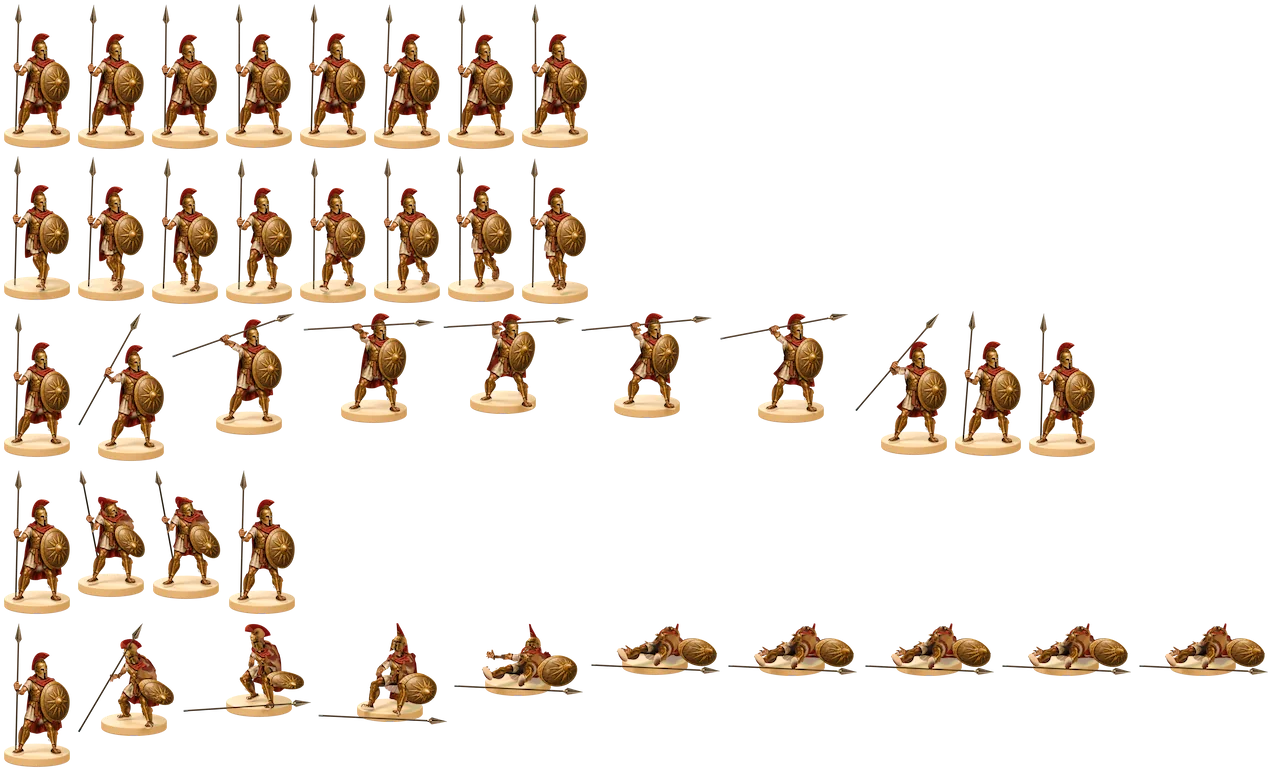
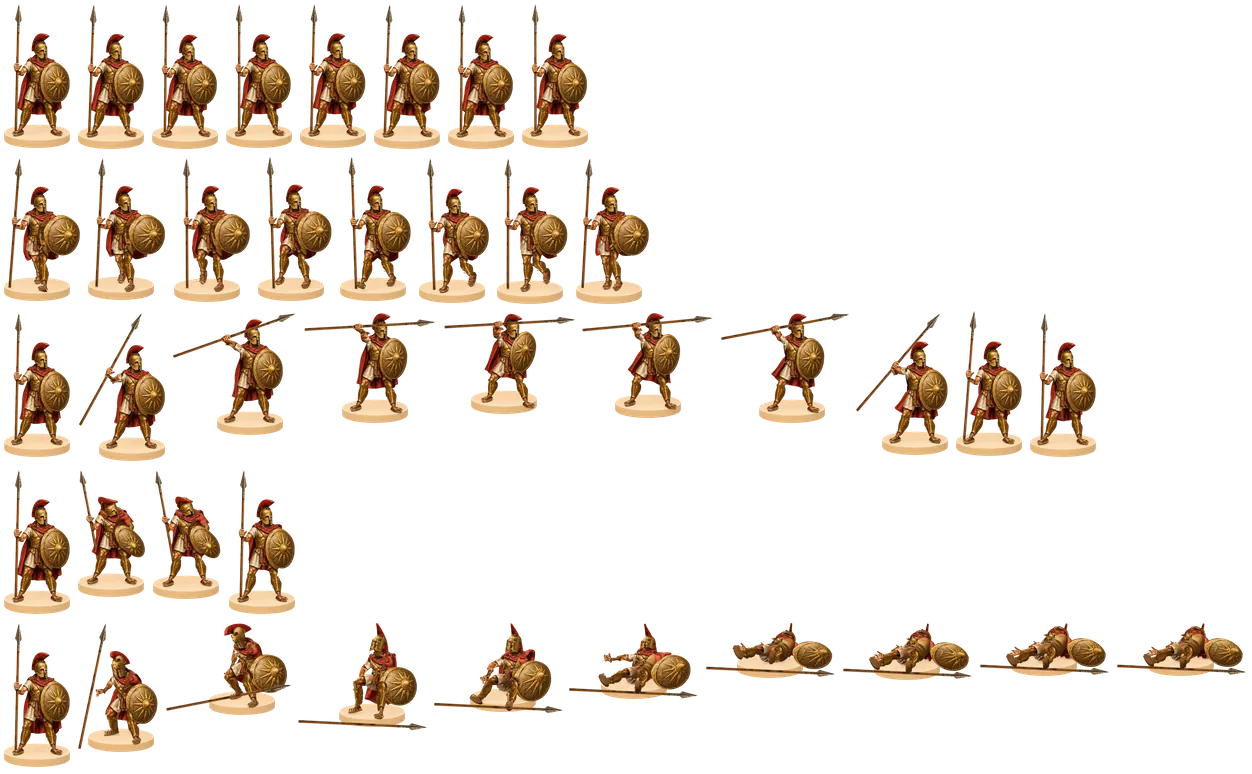
spearman round 11: GPU pass

diff --git a/tools/art/anim3d/LOG.md b/tools/art/anim3d/LOG.md
@@ -119,3 +119,5 @@ The runner writes the merge task's finish only after the final response; this is
 - Full critique and ranked next focus: `review/3d-v2/spearman-round11-note.md`. Isolated master/checks/CPU atlas: `lanes/spearman-r11-merge/`.
 
 - Combined motion readback: death head step 0.41993 m, shield step 34.4144°, ankle height 0.42261 m, late cape travel 0.15734 m (lane C 0.145 m; broader cloak adds 12 mm of late travel). Kept for the rest silhouette win; remaining motion gap is explicit.
+
+- Spearman round 11 GPU receipt: IoU 0.9275; blurred ΔE 4.59; raw ΔE 7.30; atlas 185380 bytes / q80; 40 frames. Visual review pending.
